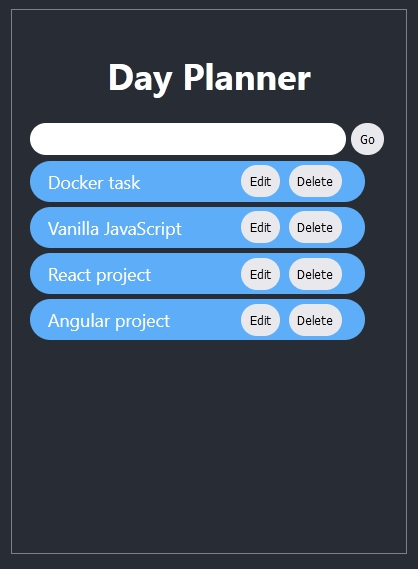
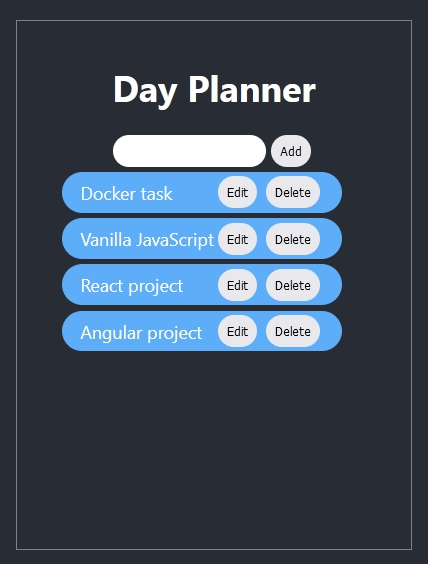
Refactored the project day-planner to use React.

Changed region(s): [[0.0311, 0.0301, 0.9641, 0.9947]]

diff --git a/day-planner/src/App.js b/day-planner/src/App.js
@@ -1,5 +1,7 @@
 import "./App.css";
 import React, { useState } from "react";
+import MainForm from "./components/MainForm";
+import AllTodos from "./components/AllTodos";
 
 const App = () => {
   const [todo, setTodo] = useState("");
@@ -44,27 +46,18 @@ const App = () => {
     <div className="App">
       <div className="container">
         <h1>Day Planner</h1>
+        <MainForm
+          todo={todo}
+          setTodo={setTodo}
+          editId={editId}
+          handleSubmit={handleSubmit}
+        />
 
-        <form className="todoForm" onSubmit={handleSubmit}>
-          <input
-            type="text"
-            value={todo}
-            onChange={(e) => setTodo(e.target.value)}
-          />
-          <button type="submit">{editId ? "Edit" : "Go"}</button>
-        </form>
-
-        <div className="allTodos">
-          {todos.map((t) => (
-            <div className="singleTodo">
-              <span className="todoText" key={t.id}>
-                {t.todo}
-              </span>
-              <button onClick={() => handleEdit(t.id)}>Edit</button>
-              <button onClick={() => handleDelete(t.id)}>Delete</button>
-            </div>
-          ))}
-        </div>
+        <AllTodos
+          handleEdit={handleEdit}
+          todos={todos}
+          handleDelete={handleDelete}
+        />
       </div>
     </div>
   );

diff --git a/day-planner/src/components/AllTodos.js b/day-planner/src/components/AllTodos.js
@@ -1,0 +1,21 @@
+import React from 'react'
+
+const AllTodos = ({handleEdit,todos,handleDelete}) => {
+    return (
+        <div>
+            <div className="allTodos">
+          {todos.map((t) => (
+            <div className="singleTodo">
+              <span className="todoText" key={t.id}>
+                {t.todo}
+              </span>
+              <button onClick={() => handleEdit(t.id)}>Edit</button>
+              <button onClick={() => handleDelete(t.id)}>Delete</button>
+            </div>
+          ))}
+        </div>
+        </div>
+    )
+}
+
+export default AllTodos

diff --git a/day-planner/src/components/MainForm.js b/day-planner/src/components/MainForm.js
@@ -1,0 +1,17 @@
+import React from 'react'
+import DynLabelButton from './DynLabelButton'
+import Input from './Input'
+
+const MainForm = ({todo,setTodo, editId, handleSubmit}) => {
+    return (
+        <div>
+            <form className="todoForm" onSubmit={handleSubmit}>
+          <Input todo={todo} setTodo={setTodo} />
+          <DynLabelButton condition={editId} trueLabel="Update" falseLabel="Add"/>
+        </form>
+        </div>
+    )
+}
+
+export default MainForm
+

diff --git a/day-planner/src/components/Input.js b/day-planner/src/components/Input.js
@@ -1,0 +1,15 @@
+import React from 'react'
+
+const Input = ({todo, setTodo}) => {
+    return (
+        <div>
+            <input
+            type="text"
+            value={todo}
+            onChange={(e) => setTodo(e.target.value)}
+          />
+        </div>
+    )
+}
+
+export default Input

diff --git a/day-planner/src/components/DynLabelButton.js b/day-planner/src/components/DynLabelButton.js
@@ -1,0 +1,11 @@
+import React from 'react'
+
+const DynLabelButton = ({condition,trueLabel, falseLabel}) => {
+    return (
+        <div>
+            <button type="submit">{condition ? trueLabel : falseLabel}</button>
+        </div>
+    )
+}
+
+export default DynLabelButton
